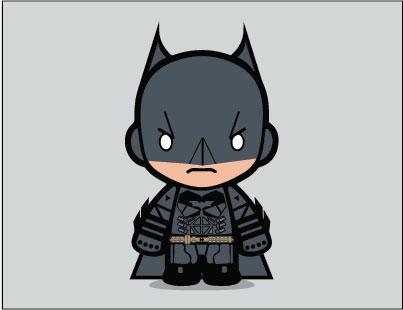
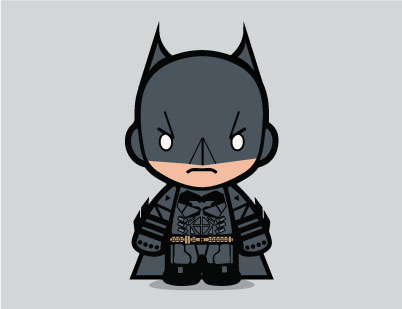
Removed stroke around portfolio image
Removed stroke around portfolio image piece 4

diff --git a/index.html b/index.html
@@ -97,6 +97,12 @@ meta: This is my main page. You can find my contact information at the bottom of
       </div>
 
     </article>
+             
+             <script src="http://code.jquery.com/jquery-1.11.2.min.js"></script>
+    <script src="http://cdnjs.cloudflare.com/ajax/libs/jquery-scrollTo/2.1.0/jquery.scrollTo.min.js"></script>
+    <script src="http://cdnjs.cloudflare.com/ajax/libs/jquery-localScroll/1.4.0/jquery.localScroll.min.js"></script>
+    <script src="http://cdnjs.cloudflare.com/ajax/libs/waypoints/2.0.5/waypoints.min.js"></script>
+    <script src="js/main.js"></script> 
     </main>
   
   <div class="link"><a href="mailto:hey@nadimdesign.ca"><b>hey@nadimdesign.ca</b></a></div>

diff --git a/404.html b/404.html
@@ -9,7 +9,7 @@ meta:
             <img src="images/banner-image404.jpg" class="banner-image" alt="bannerimage"> 
     <article>
       
-  
+  <P>oops! sorry about that, must of unplugged the internet. I'll be right back!</P>
 
     </article>
     </main>

diff --git a/_includes/css/main.css b/_includes/css/main.css
@@ -272,7 +272,7 @@ ul {
   
     .logo {
       float:left; 
-      width: 125px;
+      width: 110px;
       margin: 1em 2% 0;
       
     }

diff --git a/js/main.js b/js/main.js
@@ -1,0 +1,4 @@
+
+$navtop.localScroll();
+$socialmedia.localScroll();
+
